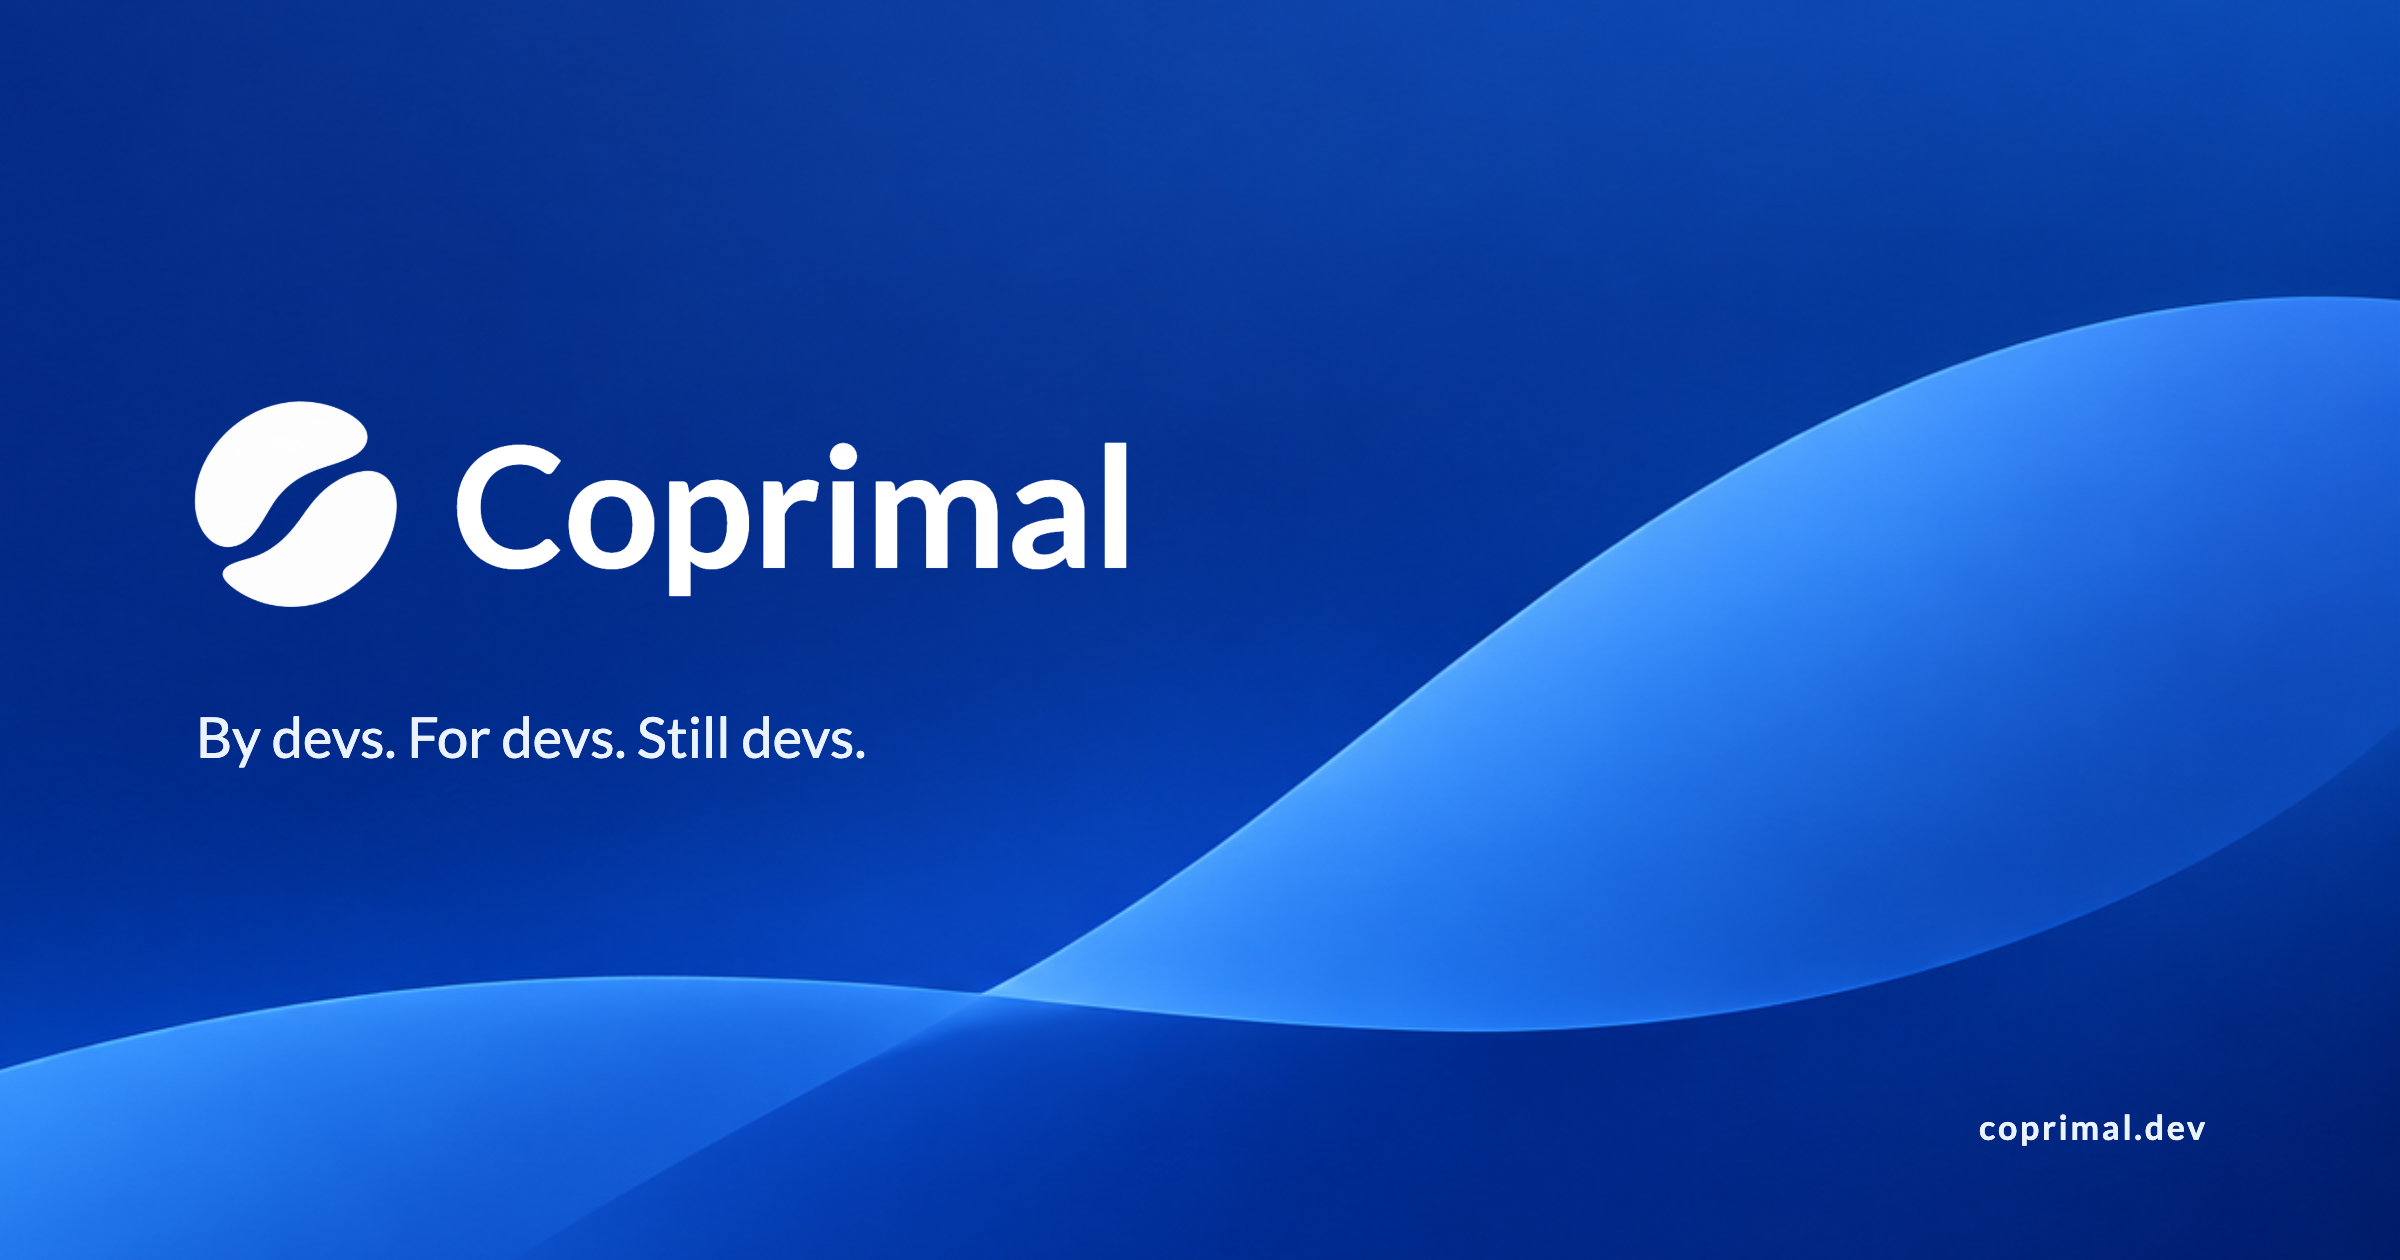
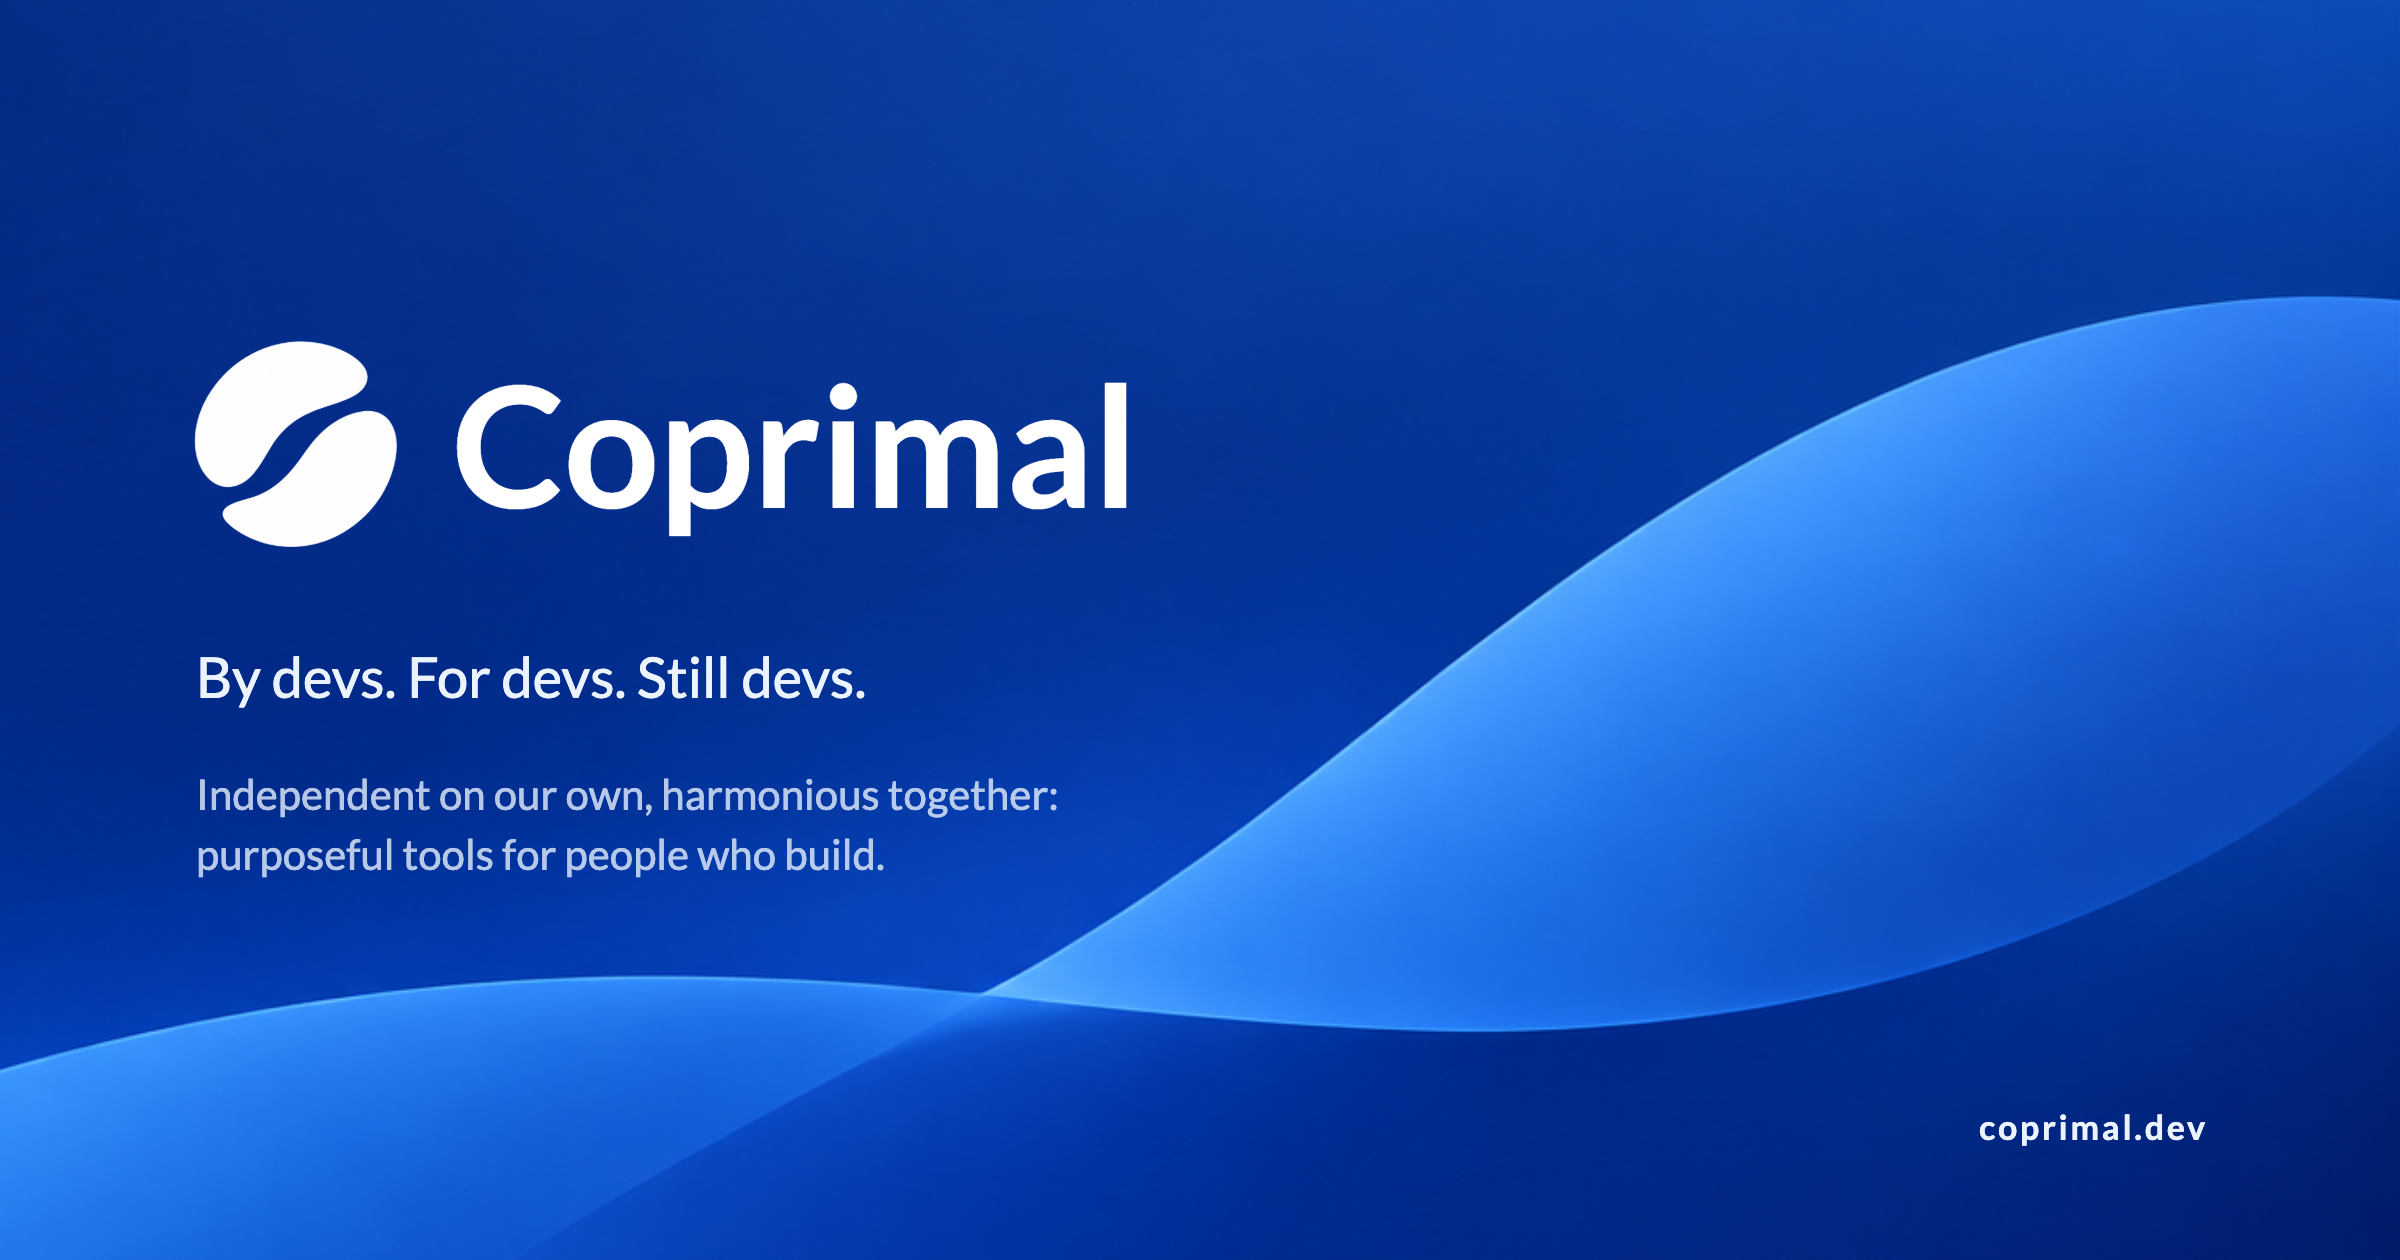
Add about line to Coprimal showcase poster and re-render it

Changed region(s): [[0.0625, 0.2476, 0.4688, 0.4952], [0.0625, 0.5262, 0.4375, 0.7119]]

diff --git a/docs/showcase/source/poster.html b/docs/showcase/source/poster.html
@@ -43,7 +43,7 @@
       .lockup {
         position: absolute;
         left: 96px;
-        top: 200px;
+        top: 170px;
         display: flex;
         align-items: center;
         gap: 26px;
@@ -64,12 +64,25 @@
       .tagline {
         position: absolute;
         left: 98px;
-        top: 352px;
+        top: 322px;
         margin: 0;
         font-weight: 400;
         font-size: 28px;
         line-height: 1.2;
         color: var(--mist);
+      }
+      /* Two lines, broken at the colon, so it stays on the plain navy left of the waves */
+      .about {
+        position: absolute;
+        left: 98px;
+        top: 382px;
+        margin: 0;
+        font-weight: 400;
+        font-size: 21px;
+        line-height: 1.45;
+        white-space: pre-line;
+        /* Mist, softened: Sky reads only ~3.4:1 on this navy */
+        color: rgb(234 243 255 / 0.78);
       }
       /* Bottom-right: the banner is deep navy there (bottom-left sits on the light wave) */
       .url {
@@ -91,14 +104,16 @@
         <h1 class="wordmark" data-k="name"></h1>
       </div>
       <p class="tagline" data-k="tagline"></p>
+      <p class="about" data-k="about"></p>
       <p class="url" data-k="url"></p>
     </div>
     <script>
-      /* Copy: the three lines of the brief; wordmark cased as in the brand lockup. */
+      /* Copy: wordmark cased as in the brand lockup; tagline, about line and URL as given by the user. */
       const STR = {
         en: {
           name: "Coprimal",
           tagline: "By devs. For devs. Still devs.",
+          about: "Independent on our own, harmonious together:\npurposeful tools for people who build.",
           url: "coprimal.dev",
         },
       };

diff --git a/docs/showcase/source/README.md b/docs/showcase/source/README.md
@@ -4,7 +4,7 @@ Re-renders `../coprimal-poster.png`: a 1200×630 poster (PNG at 2×, 2400×1260)
 
 `poster.html` holds everything:
 
-- Copy: the `STR` table (`en` only): "Coprimal" (wordmark, cased as in the brand lockup), "By devs. For devs. Still devs.", "coprimal.dev".
+- Copy: the `STR` table (`en` only): "Coprimal" (wordmark, cased as in the brand lockup), "By devs. For devs. Still devs.", the about line "Independent on our own, harmonious together: purposeful tools for people who build." (two lines, broken at the colon) and "coprimal.dev".
 - Colors: the brand palette as CSS variables on `:root` (Deep Navy `#11376e`, Bright Navy `#225db4`, Sky `#73a7e8`, Mist `#eaf3ff`).
 - Font: Lato 700 (wordmark, URL) and 400 (tagline), loaded from Google Fonts (needs network).
 - Assets, copied from the repo's `assets/` into `source/assets/`:
